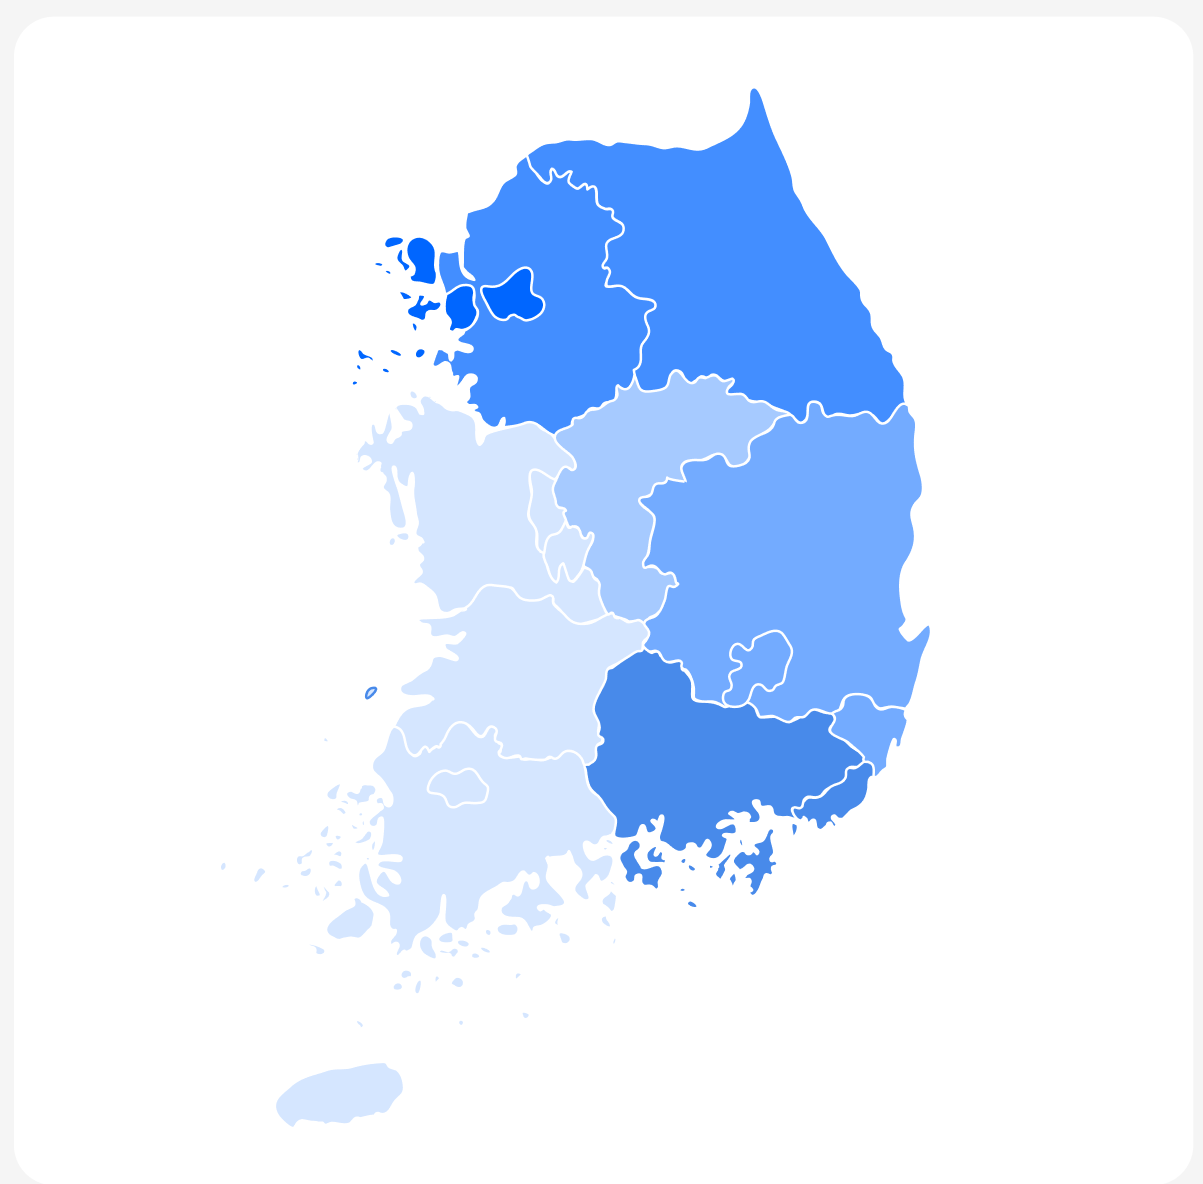
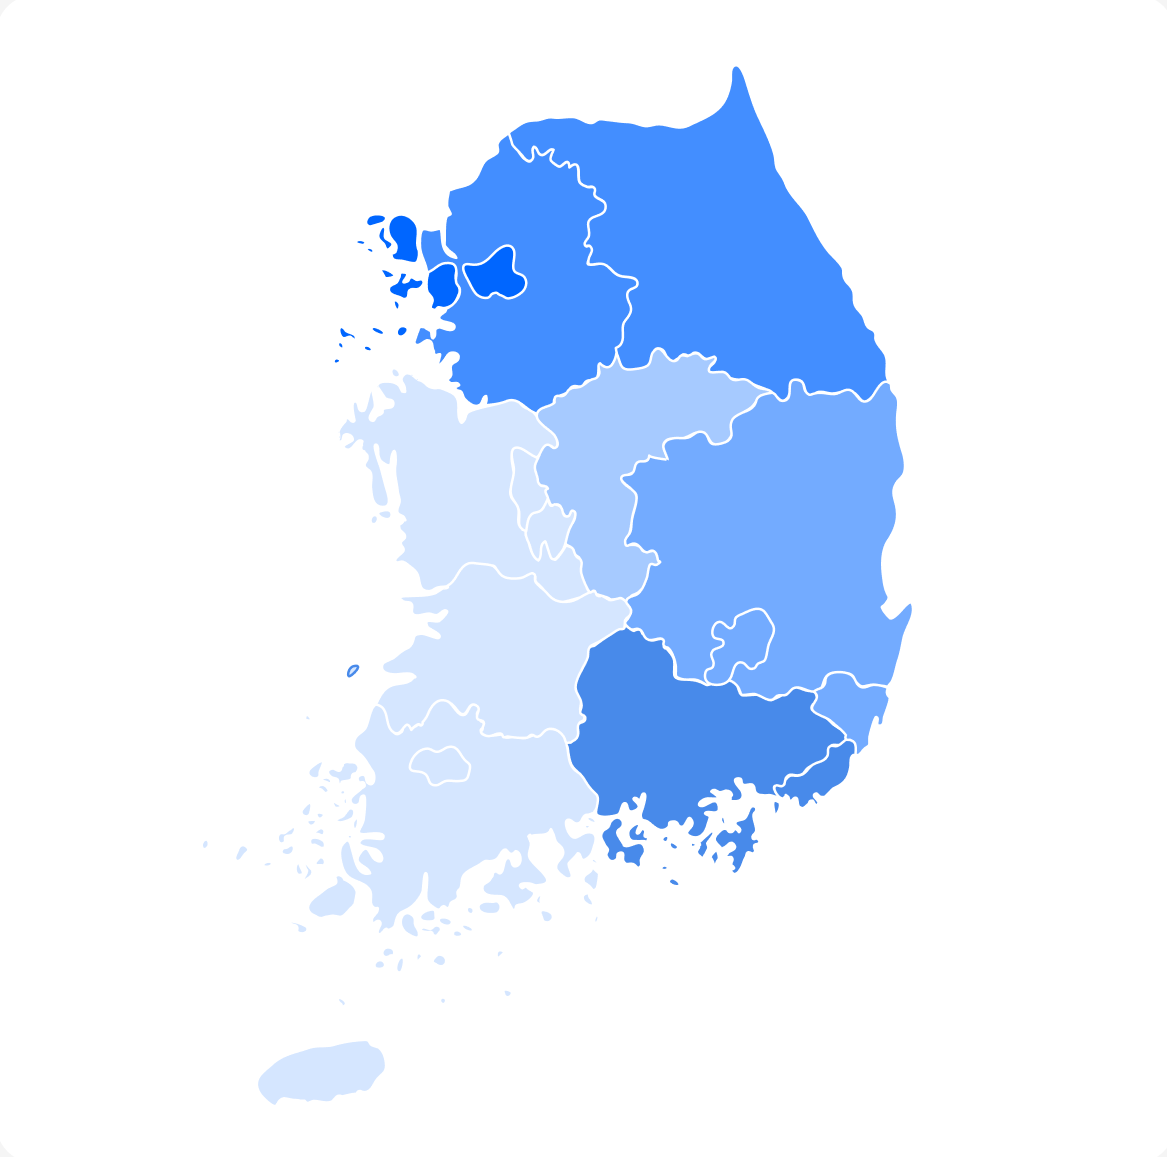
지도·타임라인 레이아웃 버그 수정
- 타임라인: flex:1 카드 늘어남 제거 → justify-content:space-evenly로 간격 분배
  세로 라인 점선(dashed gradient) 변경, panel-body에 flex-column 추가
- 지도: korea-map.png 재크롭(회색 테두리 제거), map-left padding 8px
- 지도 구분선: border-left 제거 → map-sep div로 상하 여백 있는 분리자
- 노후도 통계: 좌우 배열 → 상하 배열(flex-column), 숫자 크기 강조

diff --git a/css/style.css b/css/style.css
@@ -179,7 +179,8 @@ nav { flex: 1; }
 .ai-more:hover { text-decoration: underline; }
 
 /* ===== KPI 6칸 ===== */
-.kpi-row { display: grid; grid-template-columns: repeat(6, 1fr); gap: 14px; margin-bottom: 18px; }
+.kpi-section { display: flex; gap: 14px; margin-bottom: 18px; align-items: stretch; }
+.kpi-row { display: grid; grid-template-columns: repeat(3, 1fr); gap: 14px; flex: 1; min-width: 0; }
 .kpi-card {
   background: var(--c-surface); border: 1px solid #EDF0F4; border-radius: var(--radius-card);
   padding: 16px 18px; box-shadow: var(--shadow-soft);
@@ -208,7 +209,7 @@ nav { flex: 1; }
 .panel-head { display: flex; align-items: center; justify-content: space-between; margin-bottom: 14px; min-height: 24px; }
 .panel-title { position: relative; padding-left: 14px; font-size: 16px; font-weight: 700; color: #1f2937; }
 .panel-title::before { content: ""; position: absolute; left: 0; top: 1px; bottom: 1px; width: 4px; border-radius: 2px; background: var(--c-navy); }
-.panel-body { flex: 1; }
+.panel-body { flex: 1; display: flex; flex-direction: column; }
 .panel-body.card-white { background: #fff; border-radius: 14px; padding: 18px; box-shadow: var(--shadow-soft); display: flex; flex-direction: column; }
 .dots { color: #b6bdca; cursor: pointer; width: 30px; height: 30px; border-radius: 50%; display: flex; align-items: center; justify-content: center; font-size: 18px; line-height: 1; }
 .dots:hover { background: #fff; color: var(--c-muted); }
@@ -236,15 +237,14 @@ nav { flex: 1; }
 .risk-formula { margin-top: 16px; font-size: 11.5px; color: var(--c-faint); }
 
 /* 교체 시기 도래 (타임라인) */
-.repl-timeline { list-style: none; position: relative; padding-left: 22px; flex: 1; display: flex; flex-direction: column; }
-.repl-timeline::before { content: ""; position: absolute; left: 5px; top: 14px; bottom: 14px; width: 2px; background: #DCE1EA; }
-.repl-timeline li { position: relative; margin-bottom: 8px; flex: 1; display: flex; flex-direction: column; }
-.repl-timeline li:last-of-type { margin-bottom: 0; }
+.repl-timeline { list-style: none; position: relative; padding-left: 22px; flex: 1; display: flex; flex-direction: column; justify-content: space-evenly; }
+.repl-timeline::before { content: ""; position: absolute; left: 5px; top: 14px; bottom: 14px; width: 2px; background: repeating-linear-gradient(to bottom, #CBD5E1 0px, #CBD5E1 5px, transparent 5px, transparent 10px); }
+.repl-timeline li { position: relative; }
 .repl-timeline li::before { content: ""; position: absolute; left: -22px; top: 50%; transform: translateY(-50%); width: 12px; height: 12px; border-radius: 50%; background: var(--dot); border: 3px solid #fff; box-shadow: 0 0 0 1px #e2e6ee; }
 .repl-card {
   display: flex; align-items: center; justify-content: space-between;
-  background: #fff; border-radius: 12px; padding: 16px 18px; box-shadow: var(--shadow-soft);
-  border-left: 4px solid var(--dot); flex: 1;
+  background: #fff; border-radius: 12px; padding: 14px 18px; box-shadow: var(--shadow-soft);
+  border-left: 4px solid var(--dot);
 }
 .repl-card .r-label { font-size: 14px; font-weight: 600; color: #1f2937; }
 .repl-card .r-right { display: flex; align-items: center; gap: 14px; }
@@ -641,3 +641,70 @@ table { width: 100%; border-collapse: collapse; }
 .attach-card svg { margin: 0 auto 8px; display: block; color: #D1D5DB; }
 .attach-card .ac-title { font-size: 13px; font-weight: 600; margin-bottom: 4px; }
 .attach-card .ac-sub { font-size: 11px; }
+
+/* ===== 내 업무 현황 카드 ===== */
+.my-task-card {
+  width: 268px; flex-shrink: 0;
+  background: var(--c-surface); border: 1px solid #EDF0F4;
+  border-radius: var(--radius-card); padding: 16px 18px;
+  box-shadow: var(--shadow-soft); display: flex; flex-direction: column; gap: 10px;
+}
+.my-task-head { display: flex; align-items: center; justify-content: space-between; }
+.my-task-head .mth-title { font-size: 15px; font-weight: 700; color: #111827; }
+.my-task-head .mth-add {
+  width: 24px; height: 24px; border: 1px solid var(--c-border);
+  border-radius: 6px; background: none; cursor: pointer; font-size: 17px; line-height: 1;
+  display: flex; align-items: center; justify-content: center; color: var(--c-muted);
+}
+.my-task-tabs { display: flex; border-bottom: 1px solid var(--c-border); }
+.mt-tab {
+  background: none; border: none; border-bottom: 2px solid transparent;
+  cursor: pointer; padding: 6px 10px; font-size: 13px; font-weight: 500;
+  color: var(--c-muted); margin-bottom: -1px;
+}
+.mt-tab.active { color: var(--c-primary); border-bottom-color: var(--c-primary); font-weight: 600; }
+.my-task-list { list-style: none; flex: 1; overflow-y: auto; }
+.mt-item {
+  display: flex; align-items: center; gap: 8px;
+  padding: 9px 0; border-bottom: 1px solid #F3F4F6;
+}
+.mt-item:last-child { border-bottom: none; }
+.mt-check {
+  width: 16px; height: 16px; border: 1.5px solid #D1D5DB;
+  border-radius: 4px; flex-shrink: 0; display: flex; align-items: center; justify-content: center;
+}
+.mt-check.done { background: #9CA3AF; border-color: #9CA3AF; color: #fff; font-size: 10px; }
+.mt-body { flex: 1; min-width: 0; }
+.mt-text { font-size: 12.5px; color: #374151; white-space: nowrap; overflow: hidden; text-overflow: ellipsis; }
+.mt-text.done { text-decoration: line-through; color: #9CA3AF; }
+.mt-date { font-size: 11px; color: var(--c-muted); margin-top: 1px; }
+.mt-date.urgent { color: #EF4444; font-weight: 600; }
+
+/* ===== 지역별 관리 현황 — 지도+노후도 2열 ===== */
+.panel-body.map-inner {
+  flex-direction: row; align-items: stretch;
+  gap: 0; overflow: visible; padding: 0;
+}
+.map-left { flex: 1; min-width: 200px; padding: 8px; }
+.map-sep { width: 1px; background: var(--c-border); flex-shrink: 0; align-self: stretch; margin: 16px 0; }
+.map-right {
+  width: 188px; flex-shrink: 0;
+  padding: 16px 14px;
+  display: flex; flex-direction: column;
+}
+.map-aging-title { font-size: 13px; font-weight: 700; color: #111827; margin-bottom: 12px; }
+.map-right .aging-bars { background: none; border-radius: 0; padding: 0; box-shadow: none; margin-bottom: 14px; }
+.map-right .aging-stats { background: none; border-radius: 0; padding: 0; box-shadow: none; }
+.map-right .as-row { display: flex; flex-direction: column; gap: 2px; padding: 9px 0; border-bottom: 1px solid #F3F4F6; }
+.map-right .as-row:last-child { border-bottom: none; }
+.map-right .as-label { font-size: 11px; color: var(--c-muted); font-weight: 500; }
+.map-right .as-val { font-size: 17px; font-weight: 800; color: var(--c-navy); line-height: 1.2; }
+
+/* ===== 미디어쿼리 보완 ===== */
+@media (max-width: 1200px) {
+  .kpi-section { flex-direction: column; }
+  .my-task-card { width: 100%; }
+  .panel-body.map-inner { flex-direction: column; }
+  .map-sep { display: none; }
+  .map-right { width: 100%; border-top: 1px solid var(--c-border); padding-top: 14px; }
+}

diff --git a/index.html b/index.html
@@ -184,6 +184,7 @@
                 <div class="map-left">
                   <div class="map-box" id="map-box"></div>
                 </div>
+                <div class="map-sep"></div>
                 <div class="map-right">
                   <div class="map-aging-title">자산 노후도 분석</div>
                   <div class="aging-bars" id="aging-bars"></div>